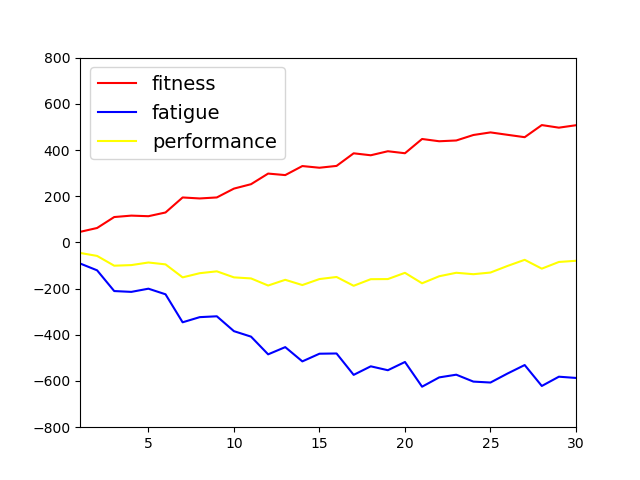
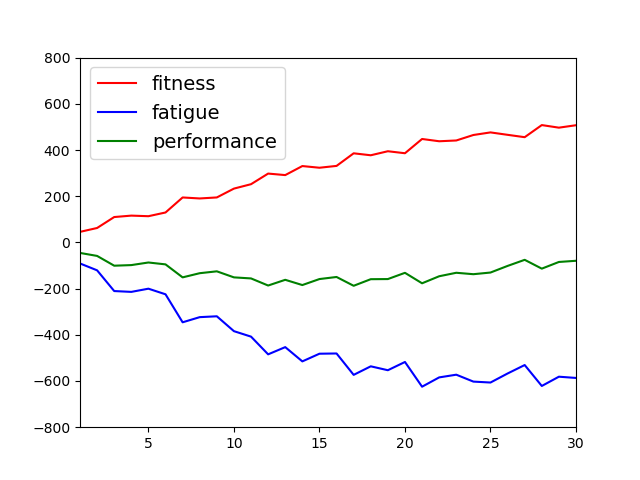
cahnge color

diff --git a/sim7/sim7.py b/sim7/sim7.py
@@ -58,7 +58,7 @@ print(file_df)
 file_df.to_excel('./sim7.xlsx')
 plt.plot(x,fit,color='red',label="fitness")
 plt.plot(x,fig,color='blue',label="fatigue")
-plt.plot(x,par,color='yellow',label="performance")
+plt.plot(x,par,color='green',label="performance")
 plt.xlim(1,length)
 plt.ylim(-800,800)
 plt.legend(fontsize=14)
